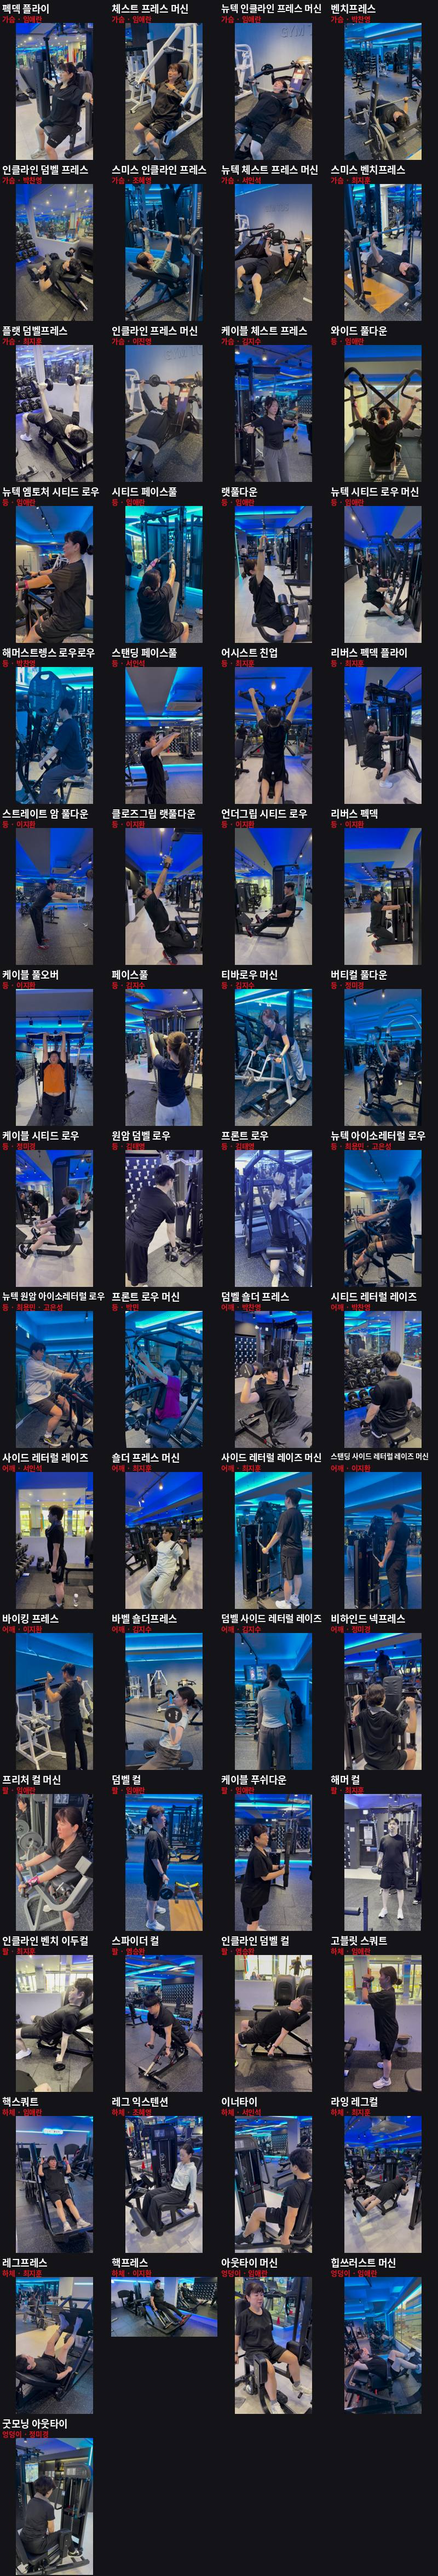
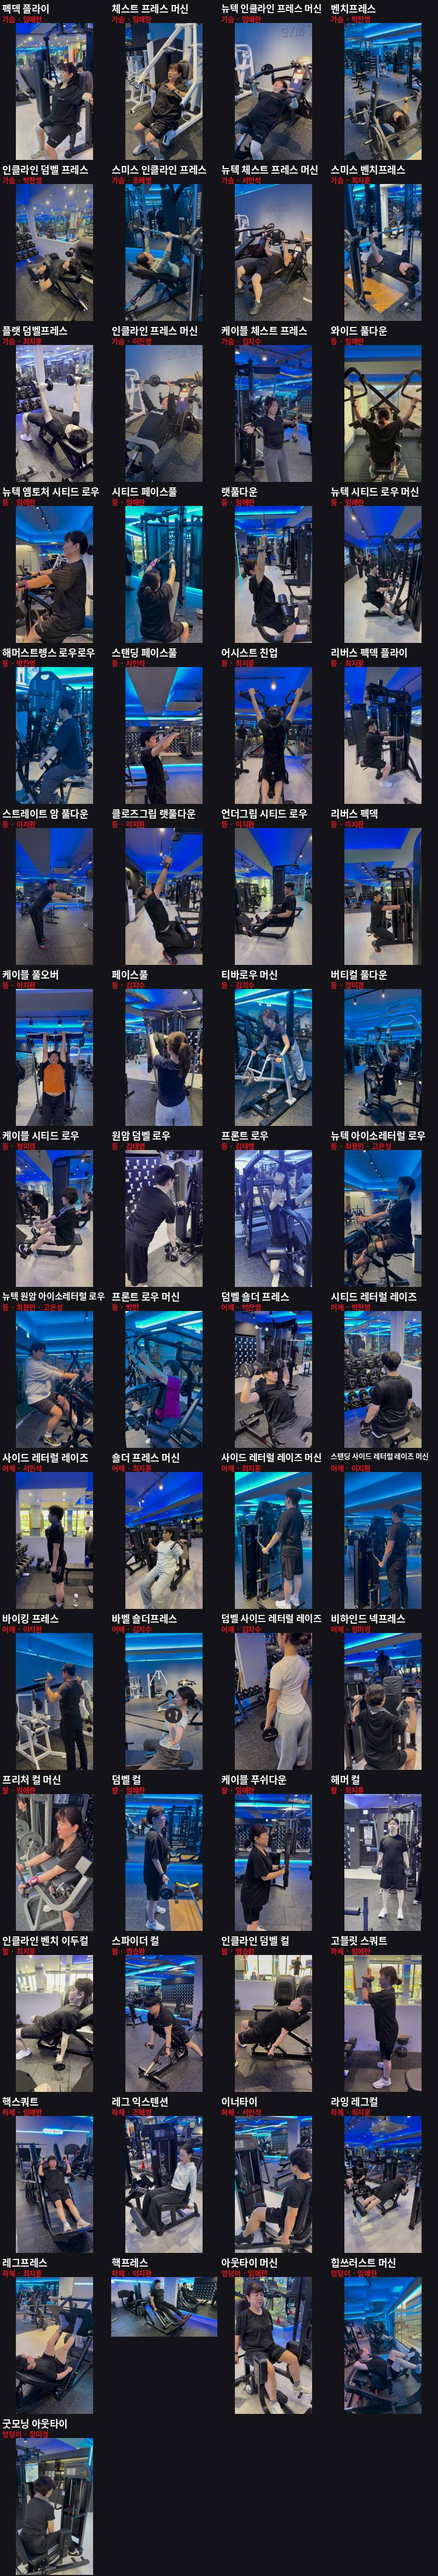
김지수: 11-25 레터럴 레이즈 영상은 머신 — 덤벨 복습지 되돌리고 사이드 레터럴 레이즈 머신 복습지로 옮김
Claude-Session: https://claude.ai/code/session_01AqP1DGUgcJdCFP6gvZcCtg

Changed region(s): [[0.5312, 0.625, 0.7188, 0.6875]]

diff --git a/m/jisu-480xne/data.js b/m/jisu-480xne/data.js
@@ -10,7 +10,7 @@ window.MEMBER = {
 
   /* 공지 (최신이 위) */
   notices: [
-    {"date":"2026. 11. 25","title":"어깨 자세 복습지 2개가 올라왔어요","link":"forms","body":"바벨 숄더프레스(새 종목) · 덤벨 사이드 레터럴 레이즈! 오늘 수업 영상으로 만들었어요. 레터럴 레이즈는 11/6 영상과 나란히 비교해 볼 수 있어요."},
+    {"date":"2026. 11. 25","title":"어깨 자세 복습지 2개가 올라왔어요","link":"forms","body":"바벨 숄더프레스(새 종목) · 사이드 레터럴 레이즈 머신! 오늘 수업 영상으로 만들었어요."},
     {"date":"2026. 11. 23","title":"등 자세 복습지 3개가 올라왔어요","link":"forms","body":"시티드 페이스풀 · 랫풀다운 · 어시스트 친업! 측면·뒷모습 두 각도로 볼 수 있어요."},
     {"date": "2026. 11. 19", "title": "가슴 자세 복습지 2개가 올라왔어요", "link": "forms", "body": "스미스 벤치프레스 · 스미스 인클라인 프레스! 오늘 수업 영상으로 만들었어요."},
     {"date": "2026. 11. 17", "title": "하체·엉덩이 자세 복습지 4개가 올라왔어요", "link": "#form-outer-thigh", "body": "아웃타이 · 이너타이 · 핵스쿼트 · 레그프레스! 오늘 수업 영상으로 만들었어요. 운동 전에 한 번 보고 들어가세요."},
@@ -32,7 +32,7 @@ window.MEMBER = {
   /* 자세 복습지 (최신이 위) */
   forms: [
     {"id":"1125-barbell-shoulder-press","dir":"media/form-1125-barbell-shoulder-press/","date":"2026. 11. 25 (수)","exercise":"바벨 숄더프레스","exercise_en":"Barbell Shoulder Press","part":"어깨","views":[{"label":"측면","file":"form"},{"label":"뒷모습","file":"back"}],"targets":["전면·측면 삼각근 (어깨)","삼두근 · 상부 승모근"],"benefit":"어깨 전체 볼륨을 키우는 기본 종목이에요. 양손이 바 하나로 이어져 있어 덤벨보다 무겁게, 좌우 같은 힘으로 밀 수 있어요","key_point":"배에 힘 주고, 바를 머리 위로 곧게 밀어 올린다!","good_points":[{"title":"팔을 끝까지 밀어 올렸어요","desc":"맨 위에서 팔이 거의 다 펴질 때까지 밀어서 어깨를 끝까지 썼어요"},{"title":"바가 좌우 같은 높이로 움직였어요","desc":"뒤에서 봐도 바가 기울지 않고 수평으로 오르내려서 양쪽 어깨가 고르게 일했어요"},{"title":"충분히 깊게 내렸어요","desc":"바를 귀 아래까지 내려서 어깨가 늘어났다가 일했어요"}],"primary_muscles":[{"name":"전면·측면 삼각근","where":"어깨 앞과 옆"}],"secondary_muscles":"삼두근 · 상부 승모근","feel_good":"어깨 앞과 옆이 묵직하게 뻐근해요","feel_stop":"어깨 안쪽이 찌릿하거나, 허리가 꺾여서 아파요","steps":[{"title":"준비","desc":"벤치에 앉아 배에 힘을 주고 가슴을 펴요. 바를 어깨보다 조금 넓게 잡고, 팔꿈치는 손목 바로 아래에 둬요","chip":"숨 들이마시기","media":"step1.jpg"},{"title":"밀어 올리기","desc":"바를 머리 위로 곧게! 맨 위에서 팔꿈치는 살짝 굽힌 채 멈춰요","chip":"1~2초 · 후~ 내쉬며","media":"step2.webp","loop":true},{"title":"내리기","desc":"버티면서 귀 아래 높이까지 천천히. 툭 떨어뜨리지 않아요","chip":"2~3초 · 들이마시며","media":"step3.webp","loop":true}],"do":["배에 힘 주고 허리 세우기","손목은 팔꿈치 바로 위에","바는 수평으로 곧게 오르내리기"],"dont":["허리를 뒤로 과하게 젖히기","어깨를 귀 쪽으로 으쓱하기","내릴 때 툭 떨어뜨리기"]},
-    {"id":"1125-db-lateral-raise","old_ids":["db-lateral-raise"],"dir":"media/form-1125-db-lateral-raise/","date":"2026. 11. 25 (수)","exercise":"덤벨 사이드 레터럴 레이즈","exercise_en":"DB Lateral Raise","part":"어깨","views":[{"label":"뒷모습","file":"form"},{"label":"측면","file":"side"}],"compare":[{"label":"11/6","date":"2026. 11. 6 (금)","dir":"media/form-db-lateral-raise/","file":"form","view":"form"}],"targets":["측면 삼각근 (옆 어깨)","상부 승모근 · 전면 삼각근"],"benefit":"옆 어깨를 동그랗게 채워줘요. 어깨선이 넓어지면 허리가 더 얇아 보이고 상체 라인이 예뻐져요","key_point":"손이 아니라 팔꿈치로 옆으로 밀어 올리고, 어깨 높이에서 멈춘다!","good_points":[{"title":"어깨 높이까지 딱 올렸어요","desc":"팔이 바닥과 나란해질 때까지 올리고 그 이상은 안 올려서 옆 어깨에 정확히 들어갔어요"},{"title":"양팔이 같은 높이로 올라갔어요","desc":"뒤에서 봐도 좌우가 같이 올라가서 양쪽 어깨가 고르게 일했어요"},{"title":"몸 반동 없이 들었어요","desc":"옆에서 봐도 상체가 앞뒤로 흔들리지 않고 곧게 선 채로 반복했어요"}],"primary_muscles":[{"name":"측면 삼각근","where":"어깨 바깥쪽, 옆에서 볼 때 동그란 부분"}],"secondary_muscles":"전면 삼각근 · 상부 승모근 · 극상근","feel_good":"어깨 옆쪽이 화끈하게 타는 느낌이에요","feel_stop":"목·승모근만 뻐근하거나, 어깨 안쪽이 찌릿해요","steps":[{"title":"준비","desc":"발은 골반 너비, 배에 힘 주고 덤벨을 허벅지 옆에. 팔꿈치는 살짝 굽혀요","chip":"숨 들이마시기","media":"step1.jpg"},{"title":"들어 올리기","desc":"팔꿈치로 옆으로 밀듯이 어깨 높이까지! 새끼손가락 쪽이 살짝 높게","chip":"1~2초 · 후~ 내쉬며","media":"step2.webp","loop":true},{"title":"내리기","desc":"버티면서 허벅지 옆까지 천천히. 툭 떨어뜨리지 않아요","chip":"2~3초 · 들이마시며","media":"step3.webp","loop":true}],"do":["팔꿈치 살짝 굽힌 채 고정","어깨 높이까지만 올리기","내릴 때 천천히 버티기"],"dont":["어깨를 귀 쪽으로 으쓱하기","몸을 흔들어 반동으로 올리기","어깨보다 높이 올리기"]},
+    {"id":"1125-lateral-raise-machine","dir":"media/form-1125-lateral-raise-machine/","date":"2026. 11. 25 (수)","exercise":"사이드 레터럴 레이즈 머신","exercise_en":"Standing Lateral Raise Machine","part":"어깨","views":[{"label":"뒷모습","file":"form"},{"label":"측면","file":"side"}],"targets":["측면 삼각근 (옆 어깨)","전면 삼각근 · 상부 승모근"],"benefit":"옆 어깨를 동그랗게 채워줘요. 어깨선이 넓어지면 허리가 더 얇아 보이고 상체 라인이 예뻐져요","key_point":"손이 아니라 팔꿈치로 들고, 어깨 높이에서 멈춘다!","good_points":[{"title":"어깨 높이까지 딱 올렸어요","desc":"팔이 바닥과 나란해질 때까지 올리고 그 이상은 안 올려서 옆 어깨에 정확히 들어갔어요"},{"title":"양팔이 같은 높이로 올라갔어요","desc":"뒤에서 봐도 좌우가 같이 올라가서 양쪽 어깨가 고르게 일했어요"},{"title":"몸 반동 없이 들었어요","desc":"옆에서 봐도 상체가 앞뒤로 흔들리지 않고 곧게 선 채로 반복했어요"}],"primary_muscles":[{"name":"측면 삼각근","where":"어깨 옆 동그란 부분"}],"secondary_muscles":"전면 삼각근 · 상부 승모근","feel_good":"어깨 옆이 타는 듯 뻐근해요","feel_stop":"목·승모근만 뻐근하거나, 어깨 안쪽이 찌릿해요","steps":[{"title":"준비","desc":"기구 가운데에 바르게 서서 양쪽 손잡이를 잡아요. 팔꿈치를 살짝 굽히고 어깨는 아래로 내려요","chip":"숨 들이마시기","media":"step1.jpg"},{"title":"들어 올리기","desc":"팔꿈치로 옆으로 크게! 어깨 높이까지 들고 위에서 1초 멈춰요","chip":"1~2초 · 후~ 내쉬며","media":"step2.webp","loop":true},{"title":"천천히 내리기","desc":"무게에 끌려가지 말고 버티면서 처음 자리까지","chip":"3초 · 들이마시며","media":"step3.webp","loop":true}],"do":["어깨는 아래로 내린 채 시작","팔꿈치가 손보다 먼저 올라가기","어깨 높이에서 1초 멈추기"],"dont":["어깨를 귀 쪽으로 으쓱하기","몸을 흔들어 반동 쓰기","팔을 어깨보다 높이 들기"],"also":["스탠딩 사이드 레터럴 레이즈 머신","레터럴 레이즈 머신"]},
     {"id":"1123-seated-face-pull","dir":"media/form-1123-seated-face-pull/","date":"2026. 11. 23 (월)","exercise":"시티드 페이스풀","exercise_en":"Seated Face Pull","part":"어깨·등","targets":["후면 삼각근","중부 승모근 · 능형근"],"benefit":"굽은 어깨를 펴주고 어깨 뒤쪽을 탄탄하게 만들어줘요","key_point":"팔꿈치를 높게, 로프를 얼굴 양옆으로 벌려 당긴다!","good_points":[{"title":"팔꿈치를 높게 들었어요","desc":"뒤에서 보면 팔꿈치가 어깨 높이로 벌어져서 뒤쪽 어깨와 날개뼈 사이가 잘 쓰였어요"},{"title":"얼굴 쪽으로 정확히 당겼어요","desc":"손이 얼굴 양옆까지 와서 끝 지점에서 날개뼈가 꽉 모였어요"},{"title":"상체가 흔들리지 않았어요","desc":"옆에서 보면 가슴을 세운 채 반동 없이 팔과 등으로만 당겼어요"}],"primary_muscles":[{"name":"후면 삼각근","where":"어깨 뒤쪽"},{"name":"중부 승모근 · 능형근","where":"날개뼈 사이"}],"secondary_muscles":"회전근개(극하근 · 소원근) · 하부 승모근","feel_good":"어깨 뒤쪽과 날개뼈 사이가 뻐근해요","feel_stop":"목·승모근이 뻐근하게 올라오거나, 팔만 아파요","steps":[{"title":"준비","desc":"의자에 앉아 가슴을 세우고, 로프를 손등이 위로 오게 잡아 팔을 앞으로 뻗어요","chip":"숨 들이마시기","media":"step1.jpg"},{"title":"당기기","desc":"팔꿈치를 어깨 높이로 들고, 로프를 얼굴 양옆으로 벌리며 당겨요. 날개뼈를 모으고 1초!","chip":"2초 · 후~ 내쉬며","media":"step2.webp","loop":true},{"title":"돌아가기","desc":"어깨가 앞으로 끌려가지 않게 버티면서 천천히 팔을 펴요","chip":"3초 · 들이마시며","media":"step3.webp","loop":true}],"do":["가슴 세우고 상체는 고정","팔꿈치는 손보다 높게","당긴 끝에서 날개뼈 모으고 1초 멈춤"],"dont":["몸을 뒤로 젖혀 반동 쓰기","어깨를 귀 쪽으로 으쓱 올리기","로프를 턱·목 아래로 당기기"],"views":[{"label":"측면","file":"form"},{"label":"뒷모습","file":"back"}]},
     {"id":"1123-lat-pulldown","dir":"media/form-1123-lat-pulldown/","date":"2026. 11. 23 (월)","exercise":"랫풀다운","exercise_en":"Lat Pulldown","part":"등","targets":["광배근 (등 옆 날개)","대원근 · 능형근"],"benefit":"등을 넓게 펴서 허리가 잘록해 보이는 V라인을 만들어줘요","key_point":"가슴을 바에 마중 나가듯 세우고, 팔꿈치로 당긴다!","good_points":[{"title":"가슴을 세우고 당겼어요","desc":"옆에서 보면 상체를 살짝 젖힌 채 가슴 쪽으로 바를 끌어내렸어요"},{"title":"양팔이 똑같이 내려왔어요","desc":"뒤에서 보면 양쪽 팔꿈치가 같은 높이로 내려와 한쪽으로 쏠리지 않았어요"},{"title":"끝까지 올려서 늘렸어요","desc":"올라갈 때 팔이 쭉 펴질 때까지 보내서 등이 충분히 늘어났어요"}],"primary_muscles":[{"name":"광배근","where":"겨드랑이 아래 · 등 옆 날개"}],"secondary_muscles":"대원근 · 능형근 · 중부 승모근 · 이두근","feel_good":"겨드랑이 아래와 등 옆이 뻐근해요","feel_stop":"팔뚝만 아프거나, 목 뒤가 뻐근해요","steps":[{"title":"준비","desc":"허벅지 패드에 다리를 끼우고, 어깨보다 조금 넓게 바를 잡아요. 가슴을 세우고 팔을 쭉 펴요","chip":"숨 들이마시기","media":"step1.jpg"},{"title":"당기기","desc":"어깨를 내리고 팔꿈치를 옆구리로 끌어내리며 바를 쇄골 아래까지 당겨요. 등 꽉 1초!","chip":"2초 · 후~ 내쉬며","media":"step2.webp","loop":true},{"title":"올리기","desc":"바를 버티면서 팔이 다 펴질 때까지 천천히 올려요","chip":"3초 · 들이마시며","media":"step3.webp","loop":true}],"do":["가슴은 세우고 시선은 바 쪽","팔꿈치를 옆구리로 끌어내리기","올릴 때 팔 끝까지 펴기"],"dont":["몸을 뒤로 눕히며 반동 쓰기","바를 목 뒤로 당기기","어깨를 으쓱 올린 채 당기기"],"views":[{"label":"측면","file":"form"},{"label":"뒷모습","file":"back"}]},
     {"id":"1123-assisted-chin-up","dir":"media/form-1123-assisted-chin-up/","date":"2026. 11. 23 (월)","exercise":"어시스트 친업","exercise_en":"Assisted Chin-up","part":"등","targets":["광배근 (등 날개)","이두근 · 능형근"],"benefit":"받침이 몸무게를 덜어줘서, 혼자서는 어려운 턱걸이를 바른 자세로 연습할 수 있어요","key_point":"턱이 손잡이 위로! 내려올 땐 버티면서 천천히","good_points":[{"title":"턱이 손잡이 위까지 올라갔어요","desc":"매번 끝까지 당겨 올라가서 등 근육을 가동범위 전체로 썼어요"},{"title":"양팔이 똑같이 당겼어요","desc":"뒤에서 보면 양쪽 팔꿈치가 같은 높이로 내려와서 한쪽으로 쏠리지 않았어요"},{"title":"팔을 끝까지 펴며 내려왔어요","desc":"내려올 때 팔이 쭉 펴질 때까지 버티면서 내려와 등이 충분히 늘어났어요"}],"primary_muscles":[{"name":"광배근","where":"겨드랑이 아래 옆구리 쪽 등"}],"secondary_muscles":"이두근 · 능형근 · 대원근 · 후면 삼각근","feel_good":"겨드랑이 아래 등과 날개뼈 사이가 뻐근해요","feel_stop":"팔(이두)만 타거나, 어깨 앞이 찌릿해요","steps":[{"title":"준비","desc":"받침 무게를 정하고(무거울수록 쉬워요) 손잡이를 잡은 뒤, 무릎을 받침에 올려 팔을 쭉 펴고 매달려요","chip":"숨 들이마시기","media":"step1.jpg"},{"title":"올라가기","desc":"가슴을 손잡이 쪽으로 내밀며 팔꿈치를 옆구리로 끌어내려, 턱이 손잡이 위로","chip":"2초 · 후~ 내쉬며","media":"step2.webp","loop":true},{"title":"내려가기","desc":"버티면서 천천히, 팔이 다 펴질 때까지 내려와요","chip":"3초 · 들이마시며","media":"step3.webp","loop":true}],"do":["어깨를 아래로 내리고 시작하기","가슴을 손잡이 쪽으로 내밀기","내려올 때 3초 버티기"],"dont":["다리로 받침을 밀어 반동 쓰기","어깨를 귀 쪽으로 으쓱 올리기","반만 내려왔다 다시 올라가기"],"views":[{"label":"측면","file":"form"},{"label":"뒷모습","file":"back"}]},
@@ -179,6 +179,33 @@ window.MEMBER = {
       ],
       do: ["등·허리는 등받이에 붙이기", "손잡이는 어깨 높이까지 내리기", "위에서 팔꿈치는 살짝 남기기"],
       dont: ["허리를 젖히며 밀기", "어깨를 귀 쪽으로 으쓱하기", "무게를 쿵 내려놓고 쉬기"]
+    },
+    {
+      id: "db-lateral-raise",
+      dir: "media/form-db-lateral-raise/",
+      date: "2026. 11. 6 (금)",
+      exercise: "덤벨 사이드 레터럴 레이즈",
+      exercise_en: "DB Lateral Raise",
+      part: "어깨",
+      targets: ["측면 삼각근 (옆 어깨)", "상부 승모근 · 전면 삼각근"],
+      benefit: "옆 어깨를 동그랗게 채워줘요. 어깨선이 넓어지면 허리가 더 얇아 보이고 상체 라인이 예뻐져요",
+      key_point: "손이 아니라 팔꿈치로 옆으로 밀어 올리고, 어깨 높이에서 멈춘다!",
+      good_points: [
+        { title: "어깨 높이까지 딱 올렸어요", desc: "팔이 바닥과 나란해질 때까지 올리고 그 이상은 안 올려서 옆 어깨에 정확히 들어갔어요" },
+        { title: "팔꿈치를 살짝 굽혀 고정했어요", desc: "팔꿈치 각도가 매 회 같아서 팔이 아니라 어깨로 들었어요" },
+        { title: "몸 반동 없이 들었어요", desc: "상체가 흔들리지 않고 서 있는 자세 그대로 반복했어요" }
+      ],
+      primary_muscles: [{ name: "측면 삼각근", where: "어깨 바깥쪽, 옆에서 볼 때 동그란 부분" }],
+      secondary_muscles: "전면 삼각근 · 상부 승모근 · 극상근",
+      feel_good: "어깨 옆쪽이 화끈하게 타는 느낌이에요",
+      feel_stop: "목·승모근만 뻐근하거나, 어깨 안쪽이 찌릿해요",
+      steps: [
+        { title: "준비", desc: "발은 골반 너비, 배에 힘 주고 덤벨을 허벅지 옆에. 팔꿈치는 살짝 굽혀요", chip: "숨 들이마시기", media: "step1.jpg" },
+        { title: "들어 올리기", desc: "팔꿈치로 옆으로 밀듯이 어깨 높이까지! 새끼손가락 쪽이 살짝 높게", chip: "1~2초 · 후~ 내쉬며", media: "step2.webp", loop: true },
+        { title: "내리기", desc: "버티면서 허벅지 옆까지 천천히. 툭 떨어뜨리지 않아요", chip: "2~3초 · 들이마시며", media: "step3.webp", loop: true }
+      ],
+      do: ["팔꿈치 살짝 굽힌 채 고정", "어깨 높이까지만 올리기", "내릴 때 천천히 버티기"],
+      dont: ["어깨를 귀 쪽으로 으쓱하기", "몸을 흔들어 반동으로 올리기", "어깨보다 높이 올리기"]
     },
     {
       id: "db-shoulder-press",
